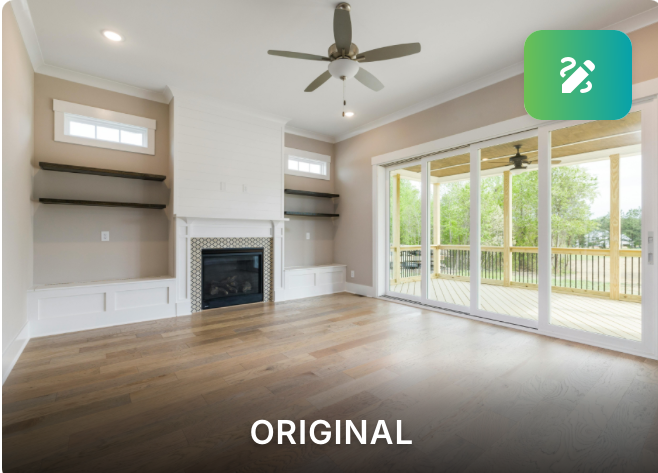
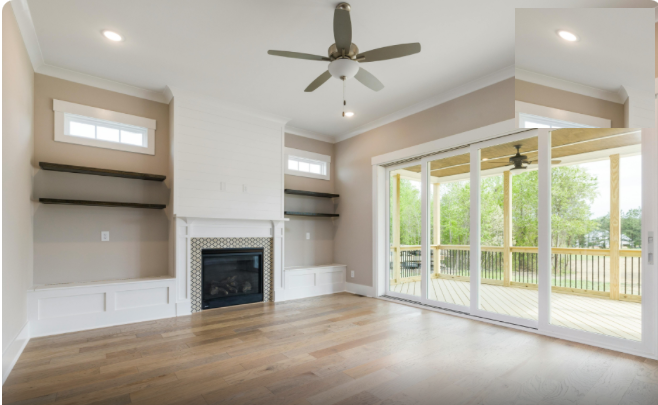
Fix doubled ORIGINAL label in five-grand-redesigns; auth capture tool; checklist gate for baked-in UI in cropped assets
Claude-Session: https://claude.ai/code/session_01PGr3RH9pf518TpoSsT5rC9

diff --git a/pipeline/capture_app.py b/pipeline/capture_app.py
@@ -1,0 +1,100 @@
+"""Authenticated real-UI capture — logged-in flows, not just public pages.
+
+Extends capture_site.py: Chromium renders while a persistent requests.Session
+does ALL network through the agent proxy — every method, POST bodies, and
+cookies included. That means signups, logins, and in-app dashboards work:
+fill the form in the page, the session keeps the auth cookies, capture every
+screen.
+
+Email verification: if EMAIL_ADDR / EMAIL_PASS / EMAIL_IMAP_HOST are set
+(burner inbox — NEVER a personal Google account), poll_verification_link()
+grabs the newest verification URL so signups complete hands-free. Use
+plus-addressing (you+sitename@host) so one inbox serves every site.
+
+Interactive use from a driver script:
+    from capture_app import Browser
+    b = Browser()
+    b.goto("https://app.example.com/login")
+    b.page.fill("input[type=email]", EMAIL); b.page.fill("input[type=password]", PW)
+    b.page.click("button[type=submit]"); b.page.wait_for_timeout(4000)
+    b.shot("ref_example/logged-in.png")
+
+Known limit: sites behind CAPTCHA / bot-walls won't sign up headlessly —
+those fall back to phone screenshots per EDITING-SYSTEM.md rule 4.
+"""
+import email as email_lib
+import imaplib
+import os
+import re
+
+import requests
+from playwright.sync_api import sync_playwright
+
+UA = ("Mozilla/5.0 (iPhone; CPU iPhone OS 17_5 like Mac OS X) "
+      "AppleWebKit/605.1.15 (KHTML, like Gecko) Version/17.5 Mobile/15E148 Safari/604.1")
+FWD_HEADERS = ["content-type", "accept", "origin", "referer", "x-requested-with", "authorization"]
+
+
+class Browser:
+    def __init__(self, viewport=(390, 844)):
+        self.s = requests.Session()
+        self.s.verify = "/root/.ccr/ca-bundle.crt"
+        self.s.headers["User-Agent"] = UA
+        self._pw = sync_playwright().start()
+        self._b = self._pw.chromium.launch(executable_path="/opt/pw-browsers/chromium")
+        ctx = self._b.new_context(viewport={"width": viewport[0], "height": viewport[1]},
+                                  device_scale_factor=2, user_agent=UA)
+        self.page = ctx.new_page()
+        self.page.route("**/*", self._route)
+
+    def _route(self, route, request):
+        try:
+            hdrs = {k: v for k, v in request.headers.items() if k.lower() in FWD_HEADERS}
+            r = self.s.request(request.method, request.url,
+                               data=request.post_data_buffer, headers=hdrs, timeout=25)
+            self.s.headers["Referer"] = request.url
+            route.fulfill(status=r.status_code,
+                          headers={"content-type": r.headers.get("content-type", "")},
+                          body=r.content)
+        except Exception:
+            route.abort()
+
+    def goto(self, url, wait=4000):
+        self.page.goto(url, timeout=60000, wait_until="domcontentloaded")
+        self.page.wait_for_timeout(wait)
+
+    def shot(self, path):
+        os.makedirs(os.path.dirname(path) or ".", exist_ok=True)
+        self.page.screenshot(path=path)
+        return path
+
+    def close(self):
+        self._b.close(); self._pw.stop()
+
+
+def poll_verification_link(subject_hint="verif", timeout_s=120):
+    """Poll the burner inbox (env: EMAIL_ADDR/EMAIL_PASS/EMAIL_IMAP_HOST) for
+    the newest message and return the first http(s) link in it."""
+    import time
+    host, addr, pw = os.environ["EMAIL_IMAP_HOST"], os.environ["EMAIL_ADDR"], os.environ["EMAIL_PASS"]
+    deadline = time.time() + timeout_s
+    while time.time() < deadline:
+        m = imaplib.IMAP4_SSL(host)
+        m.login(addr, pw); m.select("INBOX")
+        _, data = m.search(None, "UNSEEN")
+        ids = data[0].split()
+        for mid in reversed(ids):
+            _, msg_data = m.fetch(mid, "(RFC822)")
+            msg = email_lib.message_from_bytes(msg_data[0][1])
+            body = ""
+            for part in msg.walk():
+                if part.get_content_type() in ("text/html", "text/plain"):
+                    body += part.get_payload(decode=True).decode(errors="ignore")
+            links = re.findall(r'https?://[^\s"\'<>]+', body)
+            good = [l for l in links if subject_hint.lower() in l.lower() or "confirm" in l.lower() or "verify" in l.lower()]
+            if good or links:
+                m.logout()
+                return (good or links)[0]
+        m.logout()
+        time.sleep(8)
+    raise TimeoutError("no verification mail arrived")

diff --git a/REVIEW-CHECKLIST.md b/REVIEW-CHECKLIST.md
@@ -43,6 +43,9 @@ a clipped word pulled the look-down back into frame — caught by Nathan, not QC
 ## 4. B-roll screens
 
 - [ ] Real app UI only: real Claude spark, real chrome, no invented status bars.
+- [ ] Cropped real-screenshot assets are stripped of baked-in UI (labels, badges,
+      watermarks) before the page draws its own — check for DOUBLED text/icons
+      wherever a real image sits under rendered chrome (the double-ORIGINAL bug).
 - [ ] AI responses are real AI output, not written filler.
 - [ ] Claude greeting is "Evening, Zhi"; typed composer text is WHITE.
 - [ ] Typing bursts in ≤1.5s. Watching typing is boring.

diff --git a/videos/AUDIT-LOG.md b/videos/AUDIT-LOG.md
@@ -11,4 +11,4 @@ on the exact file committed. No video gets committed without an entry here.
 | free-apis-github.mp4 | 2026-07-03 | PASS | 30fps sheets: hook J-cut clean, radial return to camera clean (natural blink only), tail true black by 25.65 with CTA pill above head. Audio: 'link' ring-out intact, fade after speech. Two-clip format: hook + main talking head with b-roll insert. |
 | ocoya-auto-poster.mp4 | 2026-07-03 | PASS | Clip tails contact-sheeted BEFORE cutting (hook end 4.60, outro end 5.70, both pre-dip). Render audit: 30fps sheets at hook wipe, radial return, tail — all eyes-up, true black by 40.73. Audio: tips. ring-out intact, fade after. B-roll beats on VO words (4 connects, generate, visual, schedule confirm). |
 | five-grand-websites.mp4 | 2026-07-03 | PASS (v2, real-UI rebuild) | B-roll rebuilt screen-for-screen from 10 real durable.com screenshots: quiz steps (type/name/location/details) with per-step icon trios + progress dots, mad-libs summary, foundation checklist, AI-agents assembly, generated BrightSmile site in editor. Beat-sync verified (site on "few minutes", popover on "customizing", outreach on "outdated websites"). His footage/audio identical to audited v1; tail re-verified true black. |
-| five-grand-redesigns.mp4 | 2026-07-03 | PASS | Make-money series pt 2 (Video 40, ReimagineHome). First fully self-sourced UI: 8 live captures of reimaginehome.ai via capture_site.py, real room photo cropped from vendor site as the design output. Clip tails contact-sheeted pre-cut (hook 7.55, outro 6.20). Render audit: 30fps sheets at both boundaries + tail, all eyes-up, true black by 26.95. Audio: tips. ring-out intact. Beats on VO words (homepage/upload/style/reveal/Fiverr/1-minute). v2: in-app section rebuilt from Nathan's app.reimaginehome.ai screenshots (Start-with-any-photo upload, Design Companion chat, 5/5 Free Designs pill); ORIGINAL empty-room photo cropped from the real session = true before/after. Tail re-verified true black. |
+| five-grand-redesigns.mp4 | 2026-07-03 | PASS | Make-money series pt 2 (Video 40, ReimagineHome). First fully self-sourced UI: 8 live captures of reimaginehome.ai via capture_site.py, real room photo cropped from vendor site as the design output. Clip tails contact-sheeted pre-cut (hook 7.55, outro 6.20). Render audit: 30fps sheets at both boundaries + tail, all eyes-up, true black by 26.95. Audio: tips. ring-out intact. Beats on VO words (homepage/upload/style/reveal/Fiverr/1-minute). v2: in-app section rebuilt from Nathan's app.reimaginehome.ai screenshots (Start-with-any-photo upload, Design Companion chat, 5/5 Free Designs pill); ORIGINAL empty-room photo cropped from the real session = true before/after. Tail re-verified true black. v3: Nathan caught doubled ORIGINAL label (baked-in text in cropped asset under rendered label) — asset re-cropped clean, badge corner patched, verified single label; new checklist gate added. |